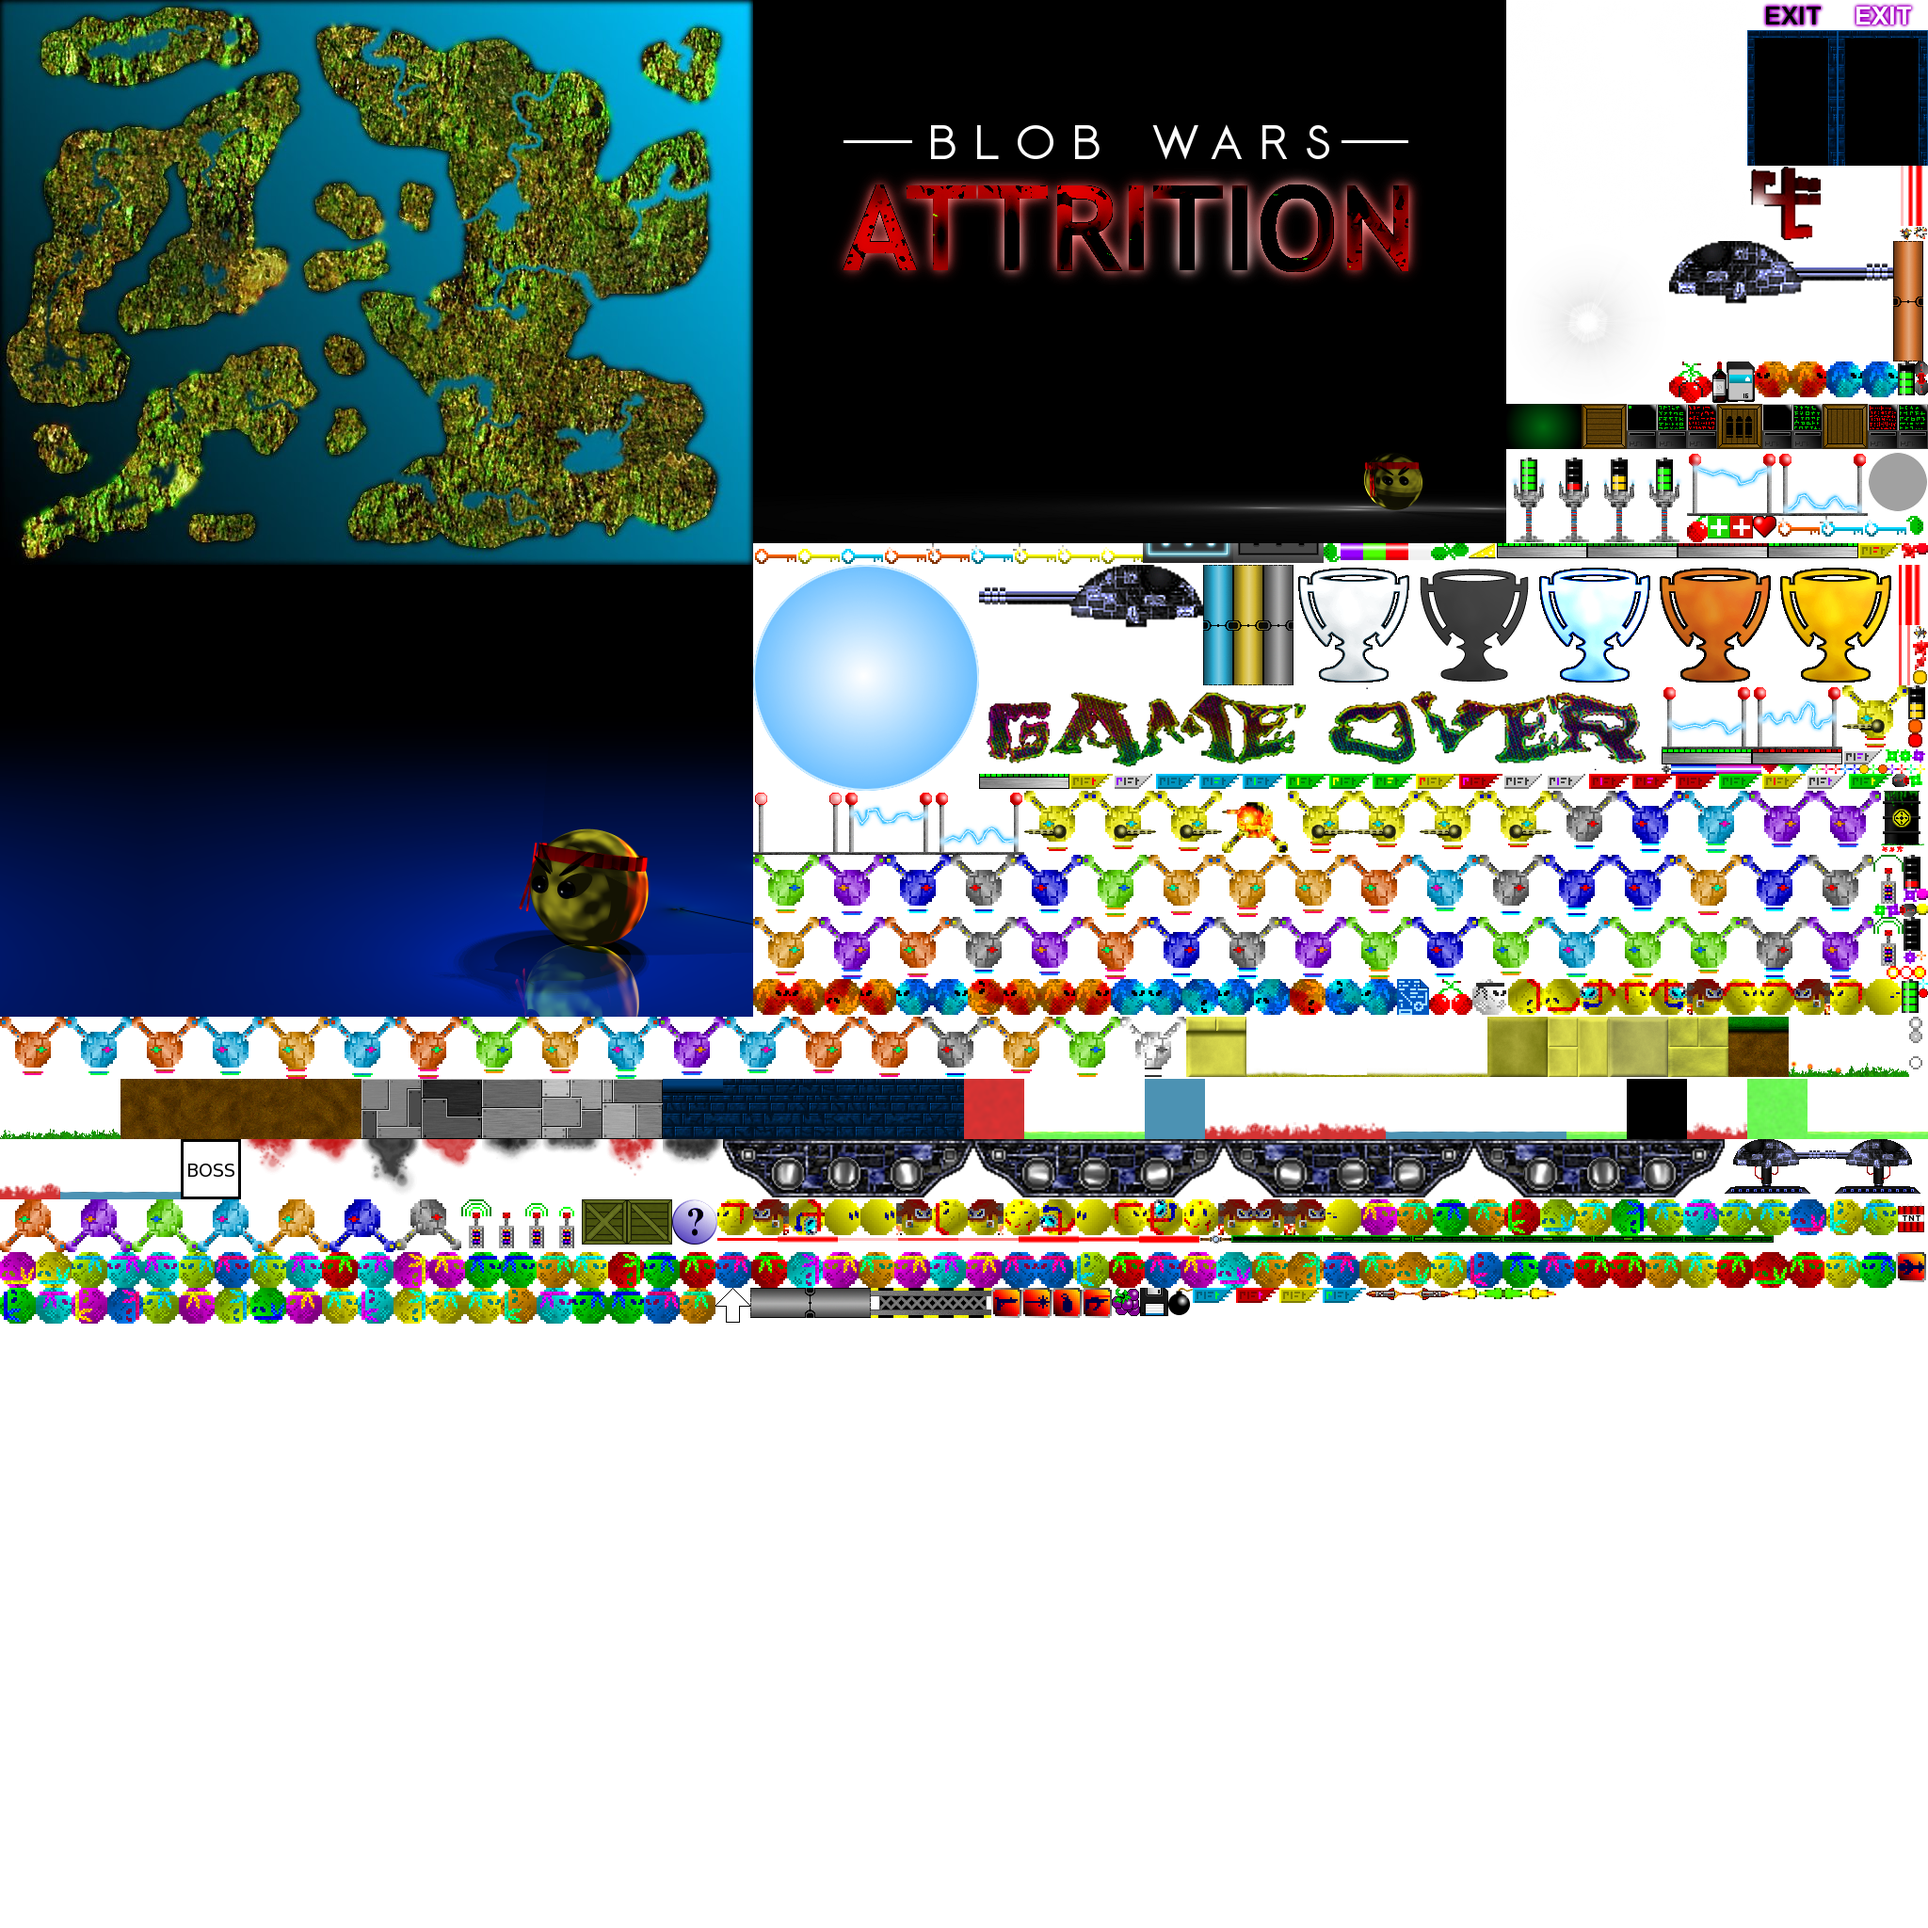
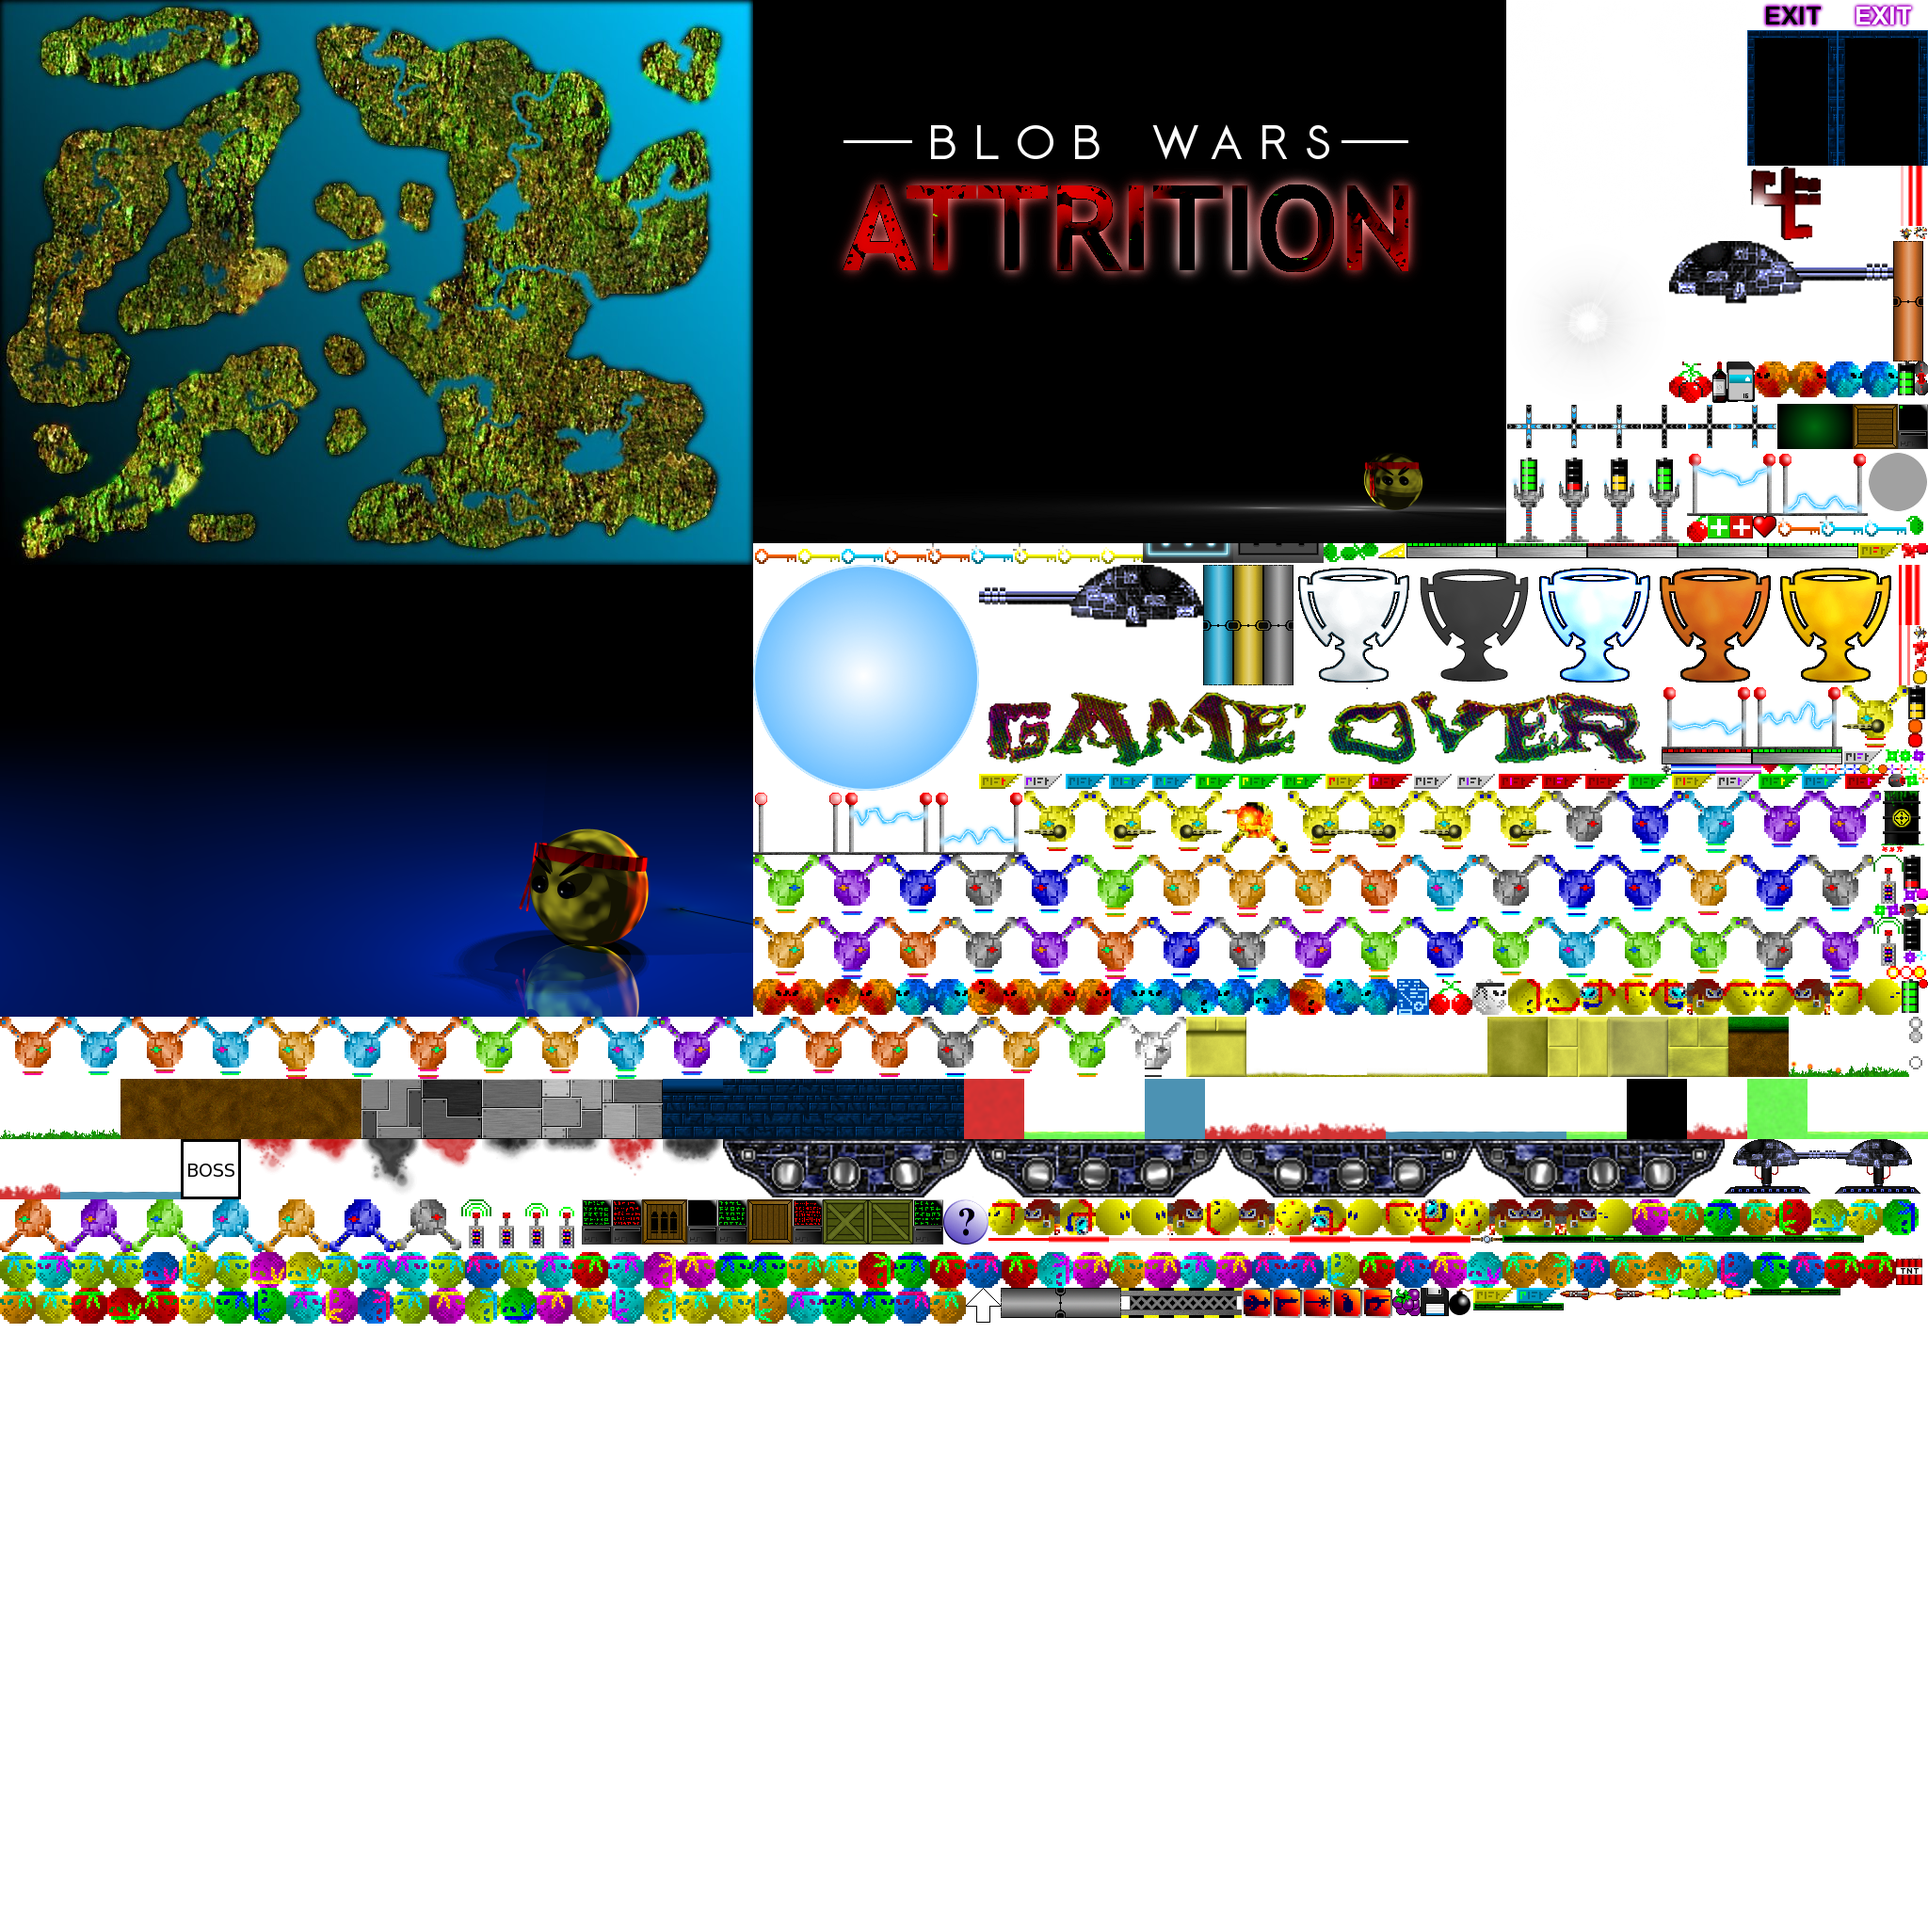
Added cursor to Hub.

diff --git a/src/hub/hub.c b/src/hub/hub.c
@@ -32,6 +32,12 @@ static void drawInfoBar(void);
 static void drawMissionInfo(void);
 static void logic(void);
 static void draw(void);
+static void startMission(void);
+static void cancel(void);
+static void options(void);
+static void stats(void);
+static void trophies(void);
+static void quit(void);
 
 static HubMission hubMissionHead;
 static HubMission *hubMissionTail;
@@ -39,12 +45,15 @@ static HubMission *selectedMission;
 static Atlas *worldMap;
 static Atlas *alert;
 static Atlas *clouds;
+static Sprite *cursorSpr;
 static Sprite *keySprites[MAX_KEY_TYPES];
 static Texture *atlasTexture;
 static int completedMissions;
 static int numMissions;
+static PointF cursor;
 static float blipSize;
 static float blipValue;
+static int showingWidgets;
 
 void initHub(void)
 {
@@ -61,6 +70,7 @@ void initHub(void)
 	worldMap = getImageFromAtlas("gfx/hub/worldMap.jpg");
 	alert = getImageFromAtlas("gfx/hub/alert.png");
 	clouds = getImageFromAtlas("gfx/hub/clouds.png");
+	cursorSpr = getSprite("Cursor");
 	
 	for (i = 0 ; i < MAX_KEY_TYPES ; i++)
 	{
@@ -69,6 +79,16 @@ void initHub(void)
 			keySprites[i] = getSprite(game.keys[i].key);
 		}
 	}
+
+	cursor.x = SCREEN_WIDTH / 2;
+	cursor.y = SCREEN_HEIGHT / 2;
+
+	getWidget("startMission", "mission")->action = startMission;
+	getWidget("cancel", "mission")->action = cancel;
+	getWidget("options", "hub")->action = options;
+	getWidget("stats", "hub")->action = stats;
+	getWidget("trophies", "hub")->action = trophies;
+	getWidget("quit", "hub")->action = quit;
 	
 	loadMissions();
 	
@@ -134,15 +154,13 @@ void initHub(void)
 		}
 	}
 	
-	if (unlockTeeka)
+	if (!unlockTeeka)
 	{
-		teeka->status = MS_INCOMPLETE;
+		teeka->status = MS_LOCKED;
 	}
 	
 	app.delegate.logic = &logic;
 	app.delegate.draw = &draw;
-	
-	app.hideMouse = 0;
 }
 
 static void logic(void)
@@ -157,14 +175,22 @@ static void logic(void)
 	
 	if (selectedMission == NULL)
 	{
-		if (app.mouse.button[SDL_BUTTON_LEFT])
+		if (app.keyboard[SDL_SCANCODE_ESCAPE])
 		{
-			m = getMissionAt(app.mouse.x, app.mouse.y);
+			showWidgetGroup("hub");
+			showingWidgets = 1;
+		}
+		else if (isControl(CONTROL_FIRE) || app.mouse.button[SDL_BUTTON_LEFT])
+		{
+			m = getMissionAt(cursor.x, cursor.y);
 			
 			if (m != NULL)
 			{
 				selectedMission = m;
 				app.mouse.button[SDL_BUTTON_LEFT] = 0;
+				clearControl(CONTROL_FIRE);
+
+				showWidgetGroup("mission");
 			}
 		}
 	}
@@ -172,9 +198,34 @@ static void logic(void)
 	{
 		if (app.keyboard[SDL_SCANCODE_ESCAPE])
 		{
-			selectedMission = NULL;
-			app.keyboard[SDL_SCANCODE_ESCAPE] = 0;
+			cancel();
 		}
+	}
+
+	if (app.mouse.dx != 0 || app.mouse.dy != 0)
+	{
+		cursor.x = app.mouse.x;
+		cursor.y = app.mouse.y;
+	}
+
+	if (isControl(CONTROL_UP) || app.keyboard[SDL_SCANCODE_UP])
+	{
+		cursor.y -= CURSOR_SPEED;
+	}
+
+	if (isControl(CONTROL_DOWN) || app.keyboard[SDL_SCANCODE_DOWN])
+	{
+		cursor.y += CURSOR_SPEED;
+	}
+
+	if (isControl(CONTROL_LEFT) || app.keyboard[SDL_SCANCODE_LEFT])
+	{
+		cursor.x -= CURSOR_SPEED;
+	}
+
+	if (isControl(CONTROL_RIGHT) || app.keyboard[SDL_SCANCODE_RIGHT])
+	{
+		cursor.x += CURSOR_SPEED;
 	}
 }
 
@@ -190,6 +241,8 @@ static void draw(void)
 	{
 		drawMissionInfo();
 	}
+	
+	blitRect(atlasTexture->texture, cursor.x, cursor.y, getCurrentFrame(cursorSpr), 1);
 }
 
 static void drawMissions(void)
@@ -238,7 +291,6 @@ static void drawInfoBar(void)
 static void drawMissionInfo(void)
 {
 	int w, h, x, y, size, mid, i;
-	SDL_Rect r;
 	
 	w = 800;
 	h = 550;
@@ -273,9 +325,7 @@ static void drawMissionInfo(void)
 		
 		if (game.keys[i].value.i > 0)
 		{
-			r = getCurrentFrame(keySprites[i]);
-			
-			blitRect(atlasTexture->texture, x + mid, y + mid + 7, &r, 1);
+			blitRect(atlasTexture->texture, x + mid, y + mid + 7, getCurrentFrame(keySprites[i]), 1);
 			
 			drawText(x + size - 5, y, 18, TA_RIGHT, colors.white, "%d", game.keys[i].value.i);
 		}
@@ -416,6 +466,41 @@ HubMission *getMissionAt(int x, int y)
 	return rtn;
 }
 
+static void startMission(void)
+{
+	STRNCPY(game.worldId, selectedMission->id, MAX_NAME_LENGTH);
+	
+	saveGame();
+}
+
+static void cancel(void)
+{
+	hideAllWidgets();
+	showingWidgets = 0;
+	selectedMission = NULL;
+	app.keyboard[SDL_SCANCODE_ESCAPE] = 0;
+}
+
+static void options(void)
+{
+
+}
+
+static void stats(void)
+{
+
+}
+
+static void trophies(void)
+{
+
+}
+
+static void quit(void)
+{
+
+}
+
 static void loadMissions(void)
 {
 	cJSON *root, *node;
@@ -463,5 +548,14 @@ static int missionComparator(const void *a, const void *b)
 
 void destroyHub(void)
 {
-	
+	HubMission *m;
+
+	while (hubMissionHead.next)
+	{
+		m = hubMissionHead.next;
+
+		hubMissionHead.next = m->next;
+
+		free(m);
+	}
 }

diff --git a/src/system/input.c b/src/system/input.c
@@ -20,12 +20,8 @@ Foundation, Inc., 59 Temple Place - Suite 330, Boston, MA  02111-1307, USA.
 
 #include "input.h"
 
-static int mouseDownTimer;
-static SDL_Point dragStart;
-
 void initInput(void)
 {
-	mouseDownTimer = 0;
 }
 
 static void doKeyDown(SDL_KeyboardEvent *event)
@@ -59,13 +55,6 @@ static void doMouseUp(SDL_MouseButtonEvent *event)
 	if (event->button >= 0 && event->button < MAX_MOUSE_BUTTONS)
 	{
 		app.mouse.button[event->button] = 0;
-		
-		if (event->button == SDL_BUTTON_LEFT)
-		{
-			app.mouse.dragging = 0;
-			
-			mouseDownTimer = 0;
-		}
 	}
 }
 
@@ -87,21 +76,8 @@ static void doMouseWheel(SDL_MouseWheelEvent *event)
 
 static void doMouseMotion(SDL_MouseMotionEvent *event)
 {
-	if (event->state & SDL_BUTTON_LMASK)
-	{
-		if (++mouseDownTimer >= 4 && (abs(dragStart.x - event->x) >= MOUSE_DRAG_THRESHOLD || abs(dragStart.y - event->y) >= MOUSE_DRAG_THRESHOLD))
-		{
-			app.mouse.dx = event->xrel;
-			app.mouse.dy = event->yrel;
-			app.mouse.dragging = 1;
-			dragStart.x = event->x;
-			dragStart.y = event->y;
-		}
-	}
-	else
-	{
-		mouseDownTimer = 0;
-	}
+	app.mouse.dx = event->xrel;
+	app.mouse.dy = event->yrel;
 }
 
 static void doButtonDown(SDL_JoyButtonEvent *event)

diff --git a/src/hub/hub.h b/src/hub/hub.h
@@ -21,6 +21,8 @@ Foundation, Inc., 59 Temple Place - Suite 330, Boston, MA  02111-1307, USA.
 #include "../common.h"
 #include "../json/cJSON.h"
 
+#define CURSOR_SPEED	8
+
 extern int getDistance(int x1, int y1, int x2, int y2);
 extern char *readFile(const char *filename);
 extern Atlas *getImageFromAtlas(char *filename);
@@ -32,8 +34,14 @@ extern void drawRect(int x, int y, int w, int h, int r, int g, int b, int a);
 extern void drawOutlineRect(int x, int y, int w, int h, int r, int g, int b, int a);
 extern void limitTextWidth(int width);
 extern Sprite *getSprite(char *name);
-extern SDL_Rect getCurrentFrame(Sprite *s);
+extern SDL_Rect *getCurrentFrame(Sprite *s);
 extern void animateSprites(void);
+extern int isControl(int type);
+extern int clearControl(int type);
+extern void saveGame(void);
+extern void hideAllWidgets(void);
+extern void showWidgetGroup(char *group);
+extern Widget *getWidget(char *name, char *group);
 
 extern App app;
 extern Colors colors;

diff --git a/src/system/init.c b/src/system/init.c
@@ -103,6 +103,8 @@ void initSDL(void)
 	}
 
 	initJoypad();
+	
+	SDL_ShowCursor(SDL_DISABLE);
 }
 
 static void initJoypad(void)
